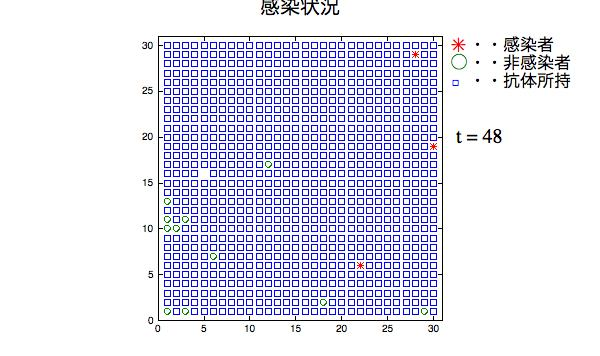
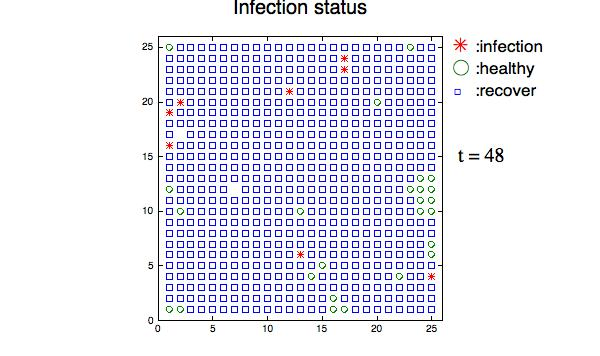
推移図追加

Changed region(s): [[0.24, 0.0927, 0.96, 0.9579], [0.39, 0.0, 0.63, 0.0618]]

diff --git a/pandemic.m b/pandemic.m
@@ -4,16 +4,16 @@ close all;
 %----------------------------------------------------------------
 % 各種パラメータ及び初期設定
 %----------------------------------------------------------------
-nx = 30;
-ny = 30;
+nx = 25;
+ny = 25;
 range = 1;
 N = nx * ny;
 
 I = 0.2;        %感染率
 R = 0.385;      %治癒率
 D = 0.0004 * R; %死亡率
-F = 5;         %初期感染者数
-nt_max = 30;
+F = 8;         %初期感染者数
+nt_max = 60;
 nt_interval = nt_max / 20;
 
 infP = zeros(nx, ny);
@@ -23,10 +23,12 @@ imm = zeros(nx, ny);
 dead = zeros(nx, ny);
 
 infP_trans = zeros(nt_max + 1, 1);
+hltP_trans = zeros(nt_max + 1, 1);
 deadP_trans = zeros(nt_max + 1, 1);
 immP_trans = zeros(nt_max + 1, 1);
 
 infP_trans(1, 1) = F;   %初期感染者数記録
+hltP_trans(1, 1) = N;
 
 for ii = 1 : F
     x = floor(nx * rand) + 1;
@@ -148,7 +150,6 @@ for nt = 1 : nt_max
                 if decision > 1 - R / 2
                     infP(ii, jj) = 0;
                     imm(ii, jj) = 1;
-                    immP_trans(nt + 1, 1) = immP_trans(nt + 1, 1) + 1;
                 else
                     if decision < D
                         dead(ii, jj) = 1;
@@ -166,7 +167,12 @@ for nt = 1 : nt_max
                 deadP_trans(nt + 1, 1) = deadP_trans(nt + 1, 1) + 1;
             end
 
+            if imm(ii, jj) == 1
+                immP_trans(nt + 1, 1) = immP_trans(nt + 1, 1) + 1;
+            end
+
         end
+        hltP_trans(nt + 1, 1) = N;
     end
 
 
@@ -202,12 +208,7 @@ for nt = 1 : nt_max
         axis([0, nx + 1, 0, ny + 1]);
 
         axis('square');
-        
-        if n_fig - 1 < 10
-            eval(sprintf('print res/pand_0%d.jpg', n_fig - 1));
-        else
-            eval(sprintf('print res/pand_%d.jpg', n_fig - 1));
-        end
+        eval(sprintf('print res/pand_%d.jpg', n_fig - 1));
 
         n_fig = n_fig + 1;
     end
@@ -215,13 +216,15 @@ end
 
 
 figure(1); clf;
+plot(hltP_trans, '-g');
+hold on;
 plot(immP_trans, '-b');
 hold on;
 plot(deadP_trans, '-k');
 hold on;
 plot(infP_trans, '-r');
 hold on;
-legend('recover', 'dead', 'infection')
+legend('all','recover', 'dead', 'infection')
 xlabel('t','fontsize', 20, 'fontname', 'times');
 ylabel('Number of people', 'fontsize', 20, 'fontname', 'times');
 ax = gca; set(ax, 'plotboxaspectratio', [1.5,1,1]);
